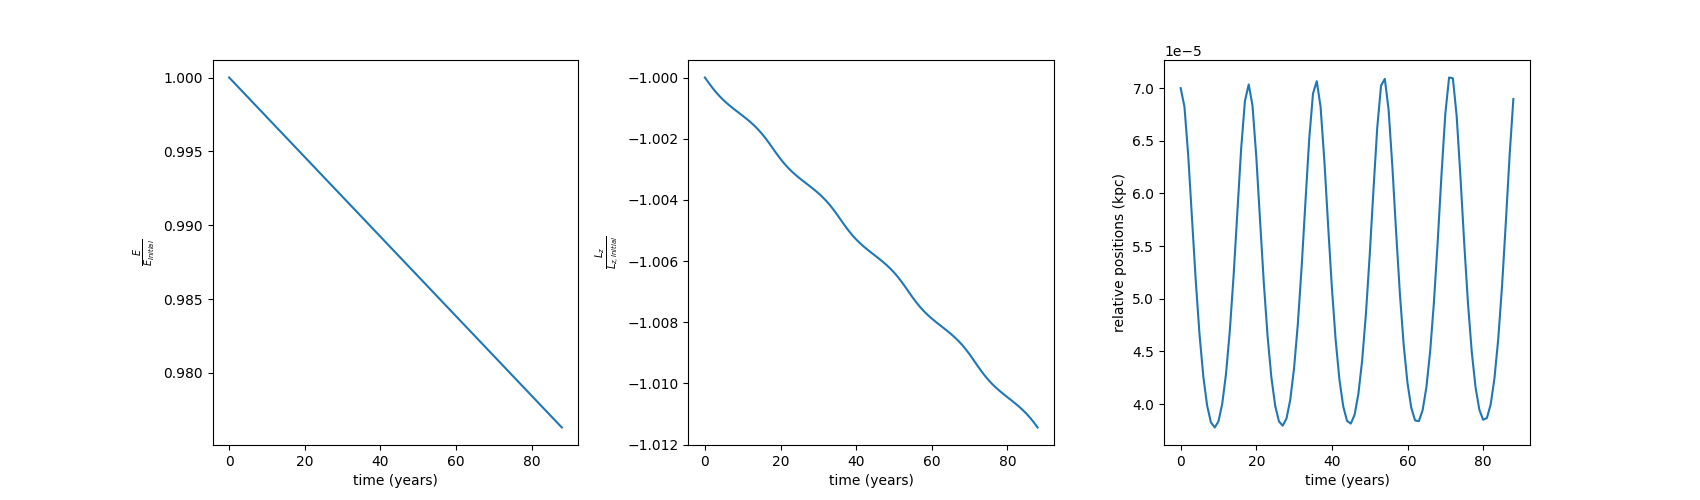
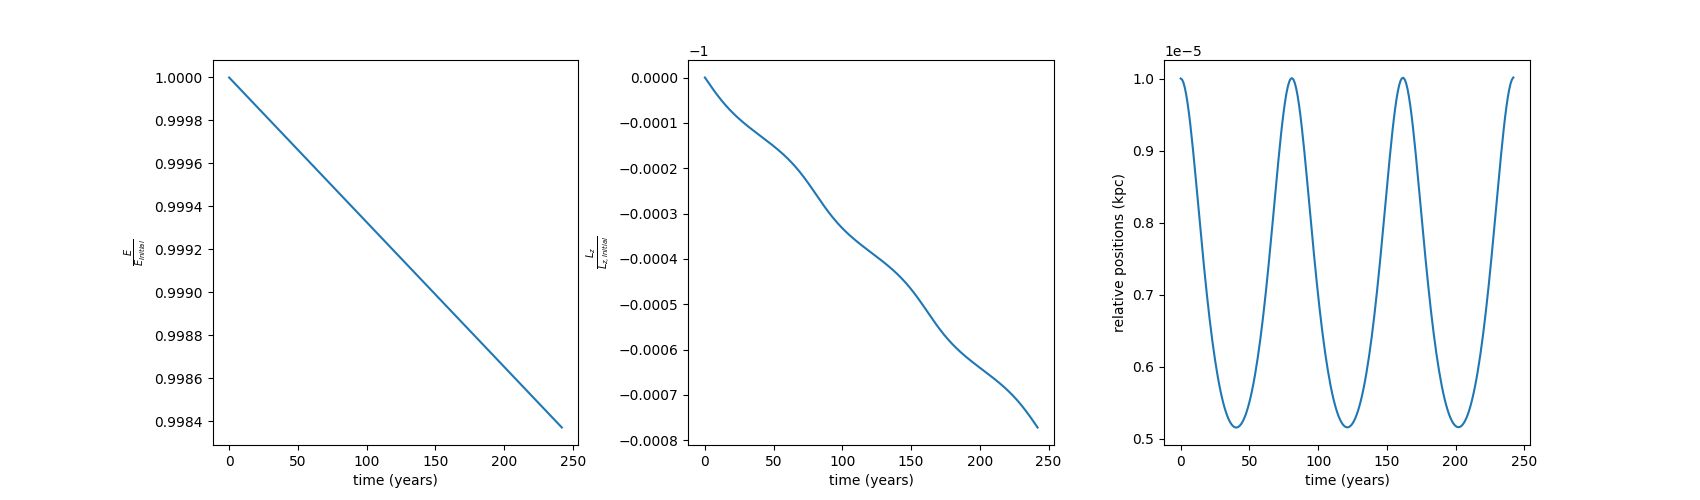
changed the order of magnitude of the flexible dt

diff --git a/bound_binary.py b/bound_binary.py
@@ -1,7 +1,7 @@
 # Description: This script calculates the total energy, angular momentum, and period of a binary star system.
 # It is used to verify that the total energy and angular momentum are conserved over time.
 # The script also calculates the period of the binary star system.
-#Writers: Lauren, Hui, Aryana, Negin, Fangyi
+# Writers: Lauren, Hui, Aryana, Negin, Fangyi
 import numpy as np
 import matplotlib.pyplot as plt
 from constants import G as const_G  # Gravitational constant
@@ -10,7 +10,7 @@ from plot_3D import visualization   # Importing 3D plotting function for visuali
 # Function to choose initial conditions for the binary system
 def choose_initial_condition(number_particles=2):
     masses = []
-    for i in range(number_perticles): masses.append(np.random.randint(1,9) * 1e6) # generate random masses
+    for i in range(number_particles): masses.append(np.random.randint(1,9) * 1e6) # generate random masses
     print('Masses = ', masses)
 
     # Set initial separation and eccentricity
@@ -109,10 +109,10 @@ position_matrix_binary = np.empty((2, 1, 3))  # Matrix to store position data fo
 position_matrix_binary = np.empty((2, 1, 3))
 
 # Simulation parameters 
-total_time = 0               # count the total evolving time
-period_num = 5               # Number of periods to simulate
-s = 0                        # Step count 
-tracking_frequency = 500    # Frequency for calculating the parameters
+total_time = 0             # count the total evolving time
+period_num = 3             # Number of periods to simulate
+s = 0                      # Step count 
+tracking_frequency = 1000  # Frequency for calculating the parameters
 # Main evolution loop
 while(1):
     if s%tracking_frequency==0:
@@ -123,8 +123,8 @@ while(1):
         angular_momentum_list += [ang_mom]
         position_matrix_binary = np.append(position_matrix_binary,position[:, np.newaxis, :],axis=1)
     # Store current velocity, acceleration, and position for each particle at time step s
-    acceleration = cal_gforce(position, m)                        # Calculate acceleration
-    dt = set_t(v, acceleration, coeff=1e-3)
+    acceleration = cal_gforce(position, m)                           # Calculate acceleration
+    dt = set_t(v, acceleration, coeff=2e-4)
 
     # Update velocity and position using half-step method
     velocity_temp = evolve_velocity(velocity, acceleration, dt / 2)  # Half-step velocity
